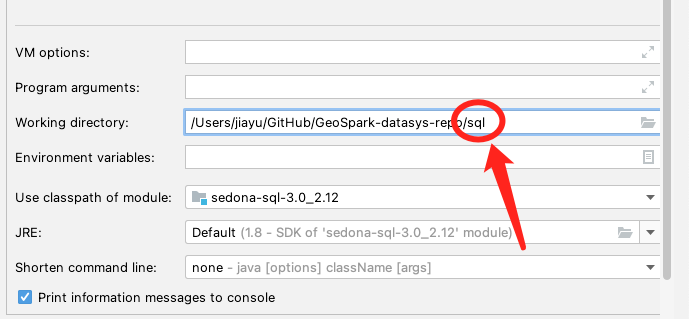
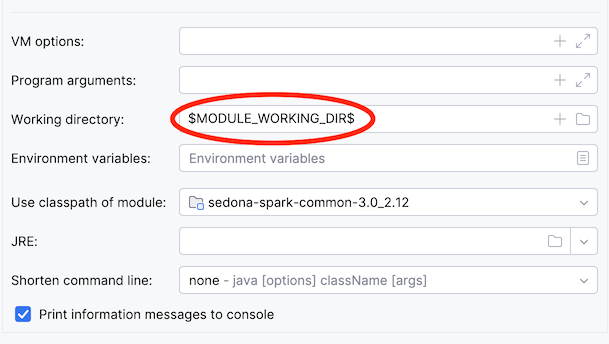
Update development guides to accommodate recent changes in the project

diff --git a/docs/community/develop.md b/docs/community/develop.md
@@ -62,7 +62,7 @@ In the IDE, right-click a test case and run this test case.
 
 ![](../image/ide-java-6.png)
 
-The IDE might tell you that the PATH does not exist as follows:
+When you run a test case written in Scala, the IDE might tell you that the "Path does not exist" as follows:
 
 ![](../image/ide-java-7.png)
 
@@ -70,13 +70,36 @@ Go to `Edit Configuration`
 
 ![](../image/ide-java-8.png)
 
-Append the submodule folder to `Working Directory`. For example, `sedona/sql`.
+Change the value of `Working Directory` to `$MODULE_WORKING_DIR$`.
 
 ![](../image/ide-java-9.png)
 
 Re-run the test case. Do NOT right-click the test case to re-run. Instead, click the button as shown in the figure below.
 
 ![](../image/ide-java-10.png)
+
+If you don't want to change the `Working Directory` configuration every time, you can change the default value of `Working Directory`
+in the `Run/Debug Configurations` window. Click `Edit configuration templates...` and change the value
+of `Working Directory` of ScalaTest to `$MODULE_WORKING_DIR$`.
+
+![](../image/ide-java-11.png)
+![](../image/ide-java-12.png)
+
+Now newly created run configurations for ScalaTest will have the correct value set for `Working Directory`.
+
+### IDE Configurations When Using Java 11
+
+If you are using Java 11, you may encounter the following error when running tests:
+
+```
+/path/to/sedona/common/src/main/java/org/apache/sedona/common/geometrySerde/UnsafeGeometryBuffer.java
+package sun.misc does not exist
+sun.misc.Unsafe
+```
+
+You can fix this issue by disabling `Use '--release' option for cross-compilation` in the IDE settings.
+
+![](../image/ide-java-13.png)
 
 ## Python developers
 
